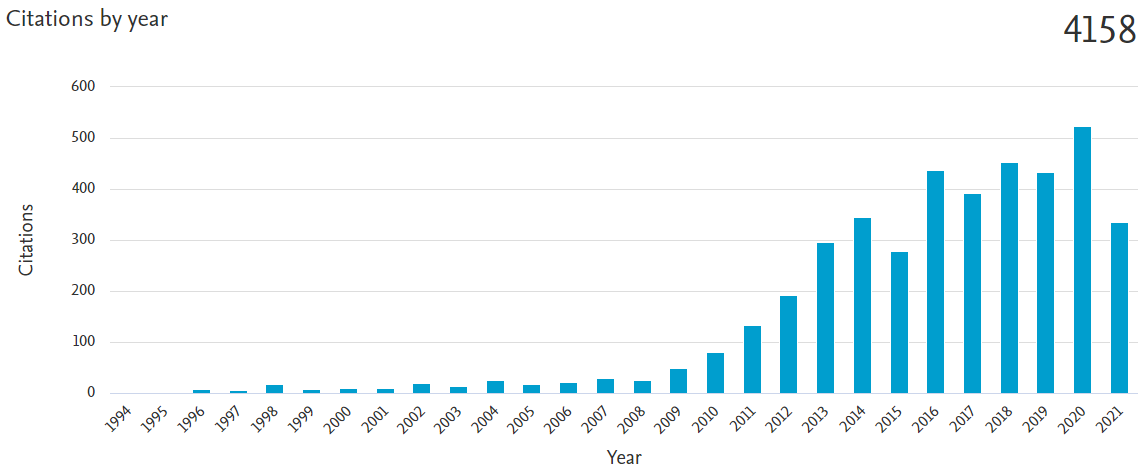
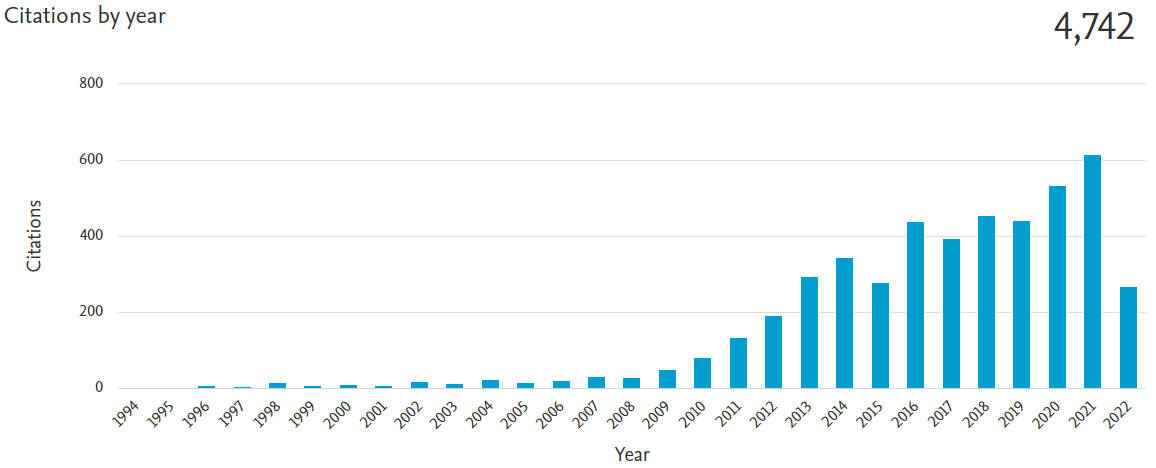
Update Prof metrics

diff --git a/website/templates/website/_includes/prof_metrics.html b/website/templates/website/_includes/prof_metrics.html
@@ -9,7 +9,7 @@
   <a href="https://www.scopus.com/authid/detail.uri?authorId=57195637544" target="_blank">
     <img src="{% static 'website/images/metrics/h-index-compressor.png' %}" class="figure-img img-fluid rounded" alt="h-index">
   </a>
-  <figcaption class="figure-caption text-right">Last updated: 31-5-2021</figcaption>
+  <figcaption class="figure-caption text-right">Last updated: 31-5-2022</figcaption>
 </figure>
 
 <h5 class="text-center">Publications</h5>
@@ -17,7 +17,7 @@
   <a href="https://www.scopus.com/authid/detail.uri?authorId=57195637544" target="_blank">
     <img src="{% static 'website/images/metrics/publications-compressor.png' %}" class="figure-img img-fluid rounded" alt="Publications">
   </a>
-  <figcaption class="figure-caption text-right">Last updated: 31-5-2021</figcaption>
+  <figcaption class="figure-caption text-right">Last updated: 31-5-2022</figcaption>
 </figure>
 
 <h5 class="text-center">Citations</h5>
@@ -25,7 +25,7 @@
   <a href="https://www.scopus.com/authid/detail.uri?authorId=57195637544" target="_blank">
     <img src="{% static 'website/images/metrics/citations-compressor.png' %}" class="figure-img img-fluid rounded" alt="Citations">
   </a>
-  <figcaption class="figure-caption text-right">Last updated: 31-5-2021</figcaption>
+  <figcaption class="figure-caption text-right">Last updated: 31-5-2022</figcaption>
 </figure>
 
 <h5 class="text-center">Sources</h5>
@@ -33,7 +33,7 @@
   <a href="https://www.scopus.com/authid/detail.uri?authorId=57195637544" target="_blank">
     <img src="{% static 'website/images/metrics/sources-compressor.png' %}" class="figure-img img-fluid rounded" alt="Sources">
   </a>
-  <figcaption class="figure-caption text-right">Last updated: 31-5-2021</figcaption>
+  <figcaption class="figure-caption text-right">Last updated: 31-5-2022</figcaption>
 </figure>
 
 
